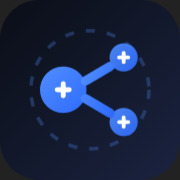
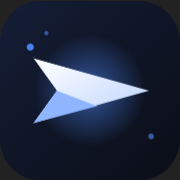
v1.0.3 — إصلاح ظهور مودال الطلب عند الفتح (hidden vs display)، الموافقة قبل الاتصال، أيقونة إرسال جديدة

diff --git a/app.js b/app.js
@@ -4,7 +4,7 @@
 'use strict';
 
 /* ═══════════ 1) ثوابت ═══════════ */
-const APP_VERSION = 'ishare-v1.0.2';
+const APP_VERSION = 'ishare-v1.0.3';
 const MAX_FILE = 500 * 1024 * 1024;
 const CHUNK_SIZE = 32 * 1024;
 const HIGH_WATER = 1024 * 1024;
@@ -94,7 +94,7 @@ function dropUrl(key) {
 
 /* ═══════════ 3) الحالة المركزية ═══════════ */
 const state = {
-  prefs: { theme: 'dark', bg: 'none', glass: 'soft', memsave: false, autoAccept: true, name: '', code: '' },
+  prefs: { theme: 'dark', bg: 'none', glass: 'soft', memsave: false, autoAccept: false, name: '', code: '', pv: 0 },
   tab: 'share',
   myId: uid(10),
   peers: new Map(),
@@ -116,6 +116,7 @@ function loadPrefs() {
   } catch (e) { /* تجاهل */ }
   if (!state.prefs.code) state.prefs.code = String(Math.floor(1000 + Math.random() * 9000));
   if (!state.prefs.name) state.prefs.name = 'جهاز-' + state.prefs.code;
+  if (state.prefs.pv < 3) { state.prefs.autoAccept = false; state.prefs.pv = 3; }
   savePrefs();
 }
 function savePrefs() {

diff --git a/styles.css b/styles.css
@@ -1,5 +1,6 @@
 /* ═══════════════════ iShare — Design System ═══════════════════ */
 *, *::before, *::after { box-sizing: border-box; }
+[hidden] { display: none !important; }
 html { -webkit-tap-highlight-color: transparent; }
 
 :root {

diff --git a/sw.js b/sw.js
@@ -1,4 +1,4 @@
-const VERSION = 'ishare-v1.0.2';
+const VERSION = 'ishare-v1.0.3';
 const CACHE = VERSION;
 
 const ASSETS = [
